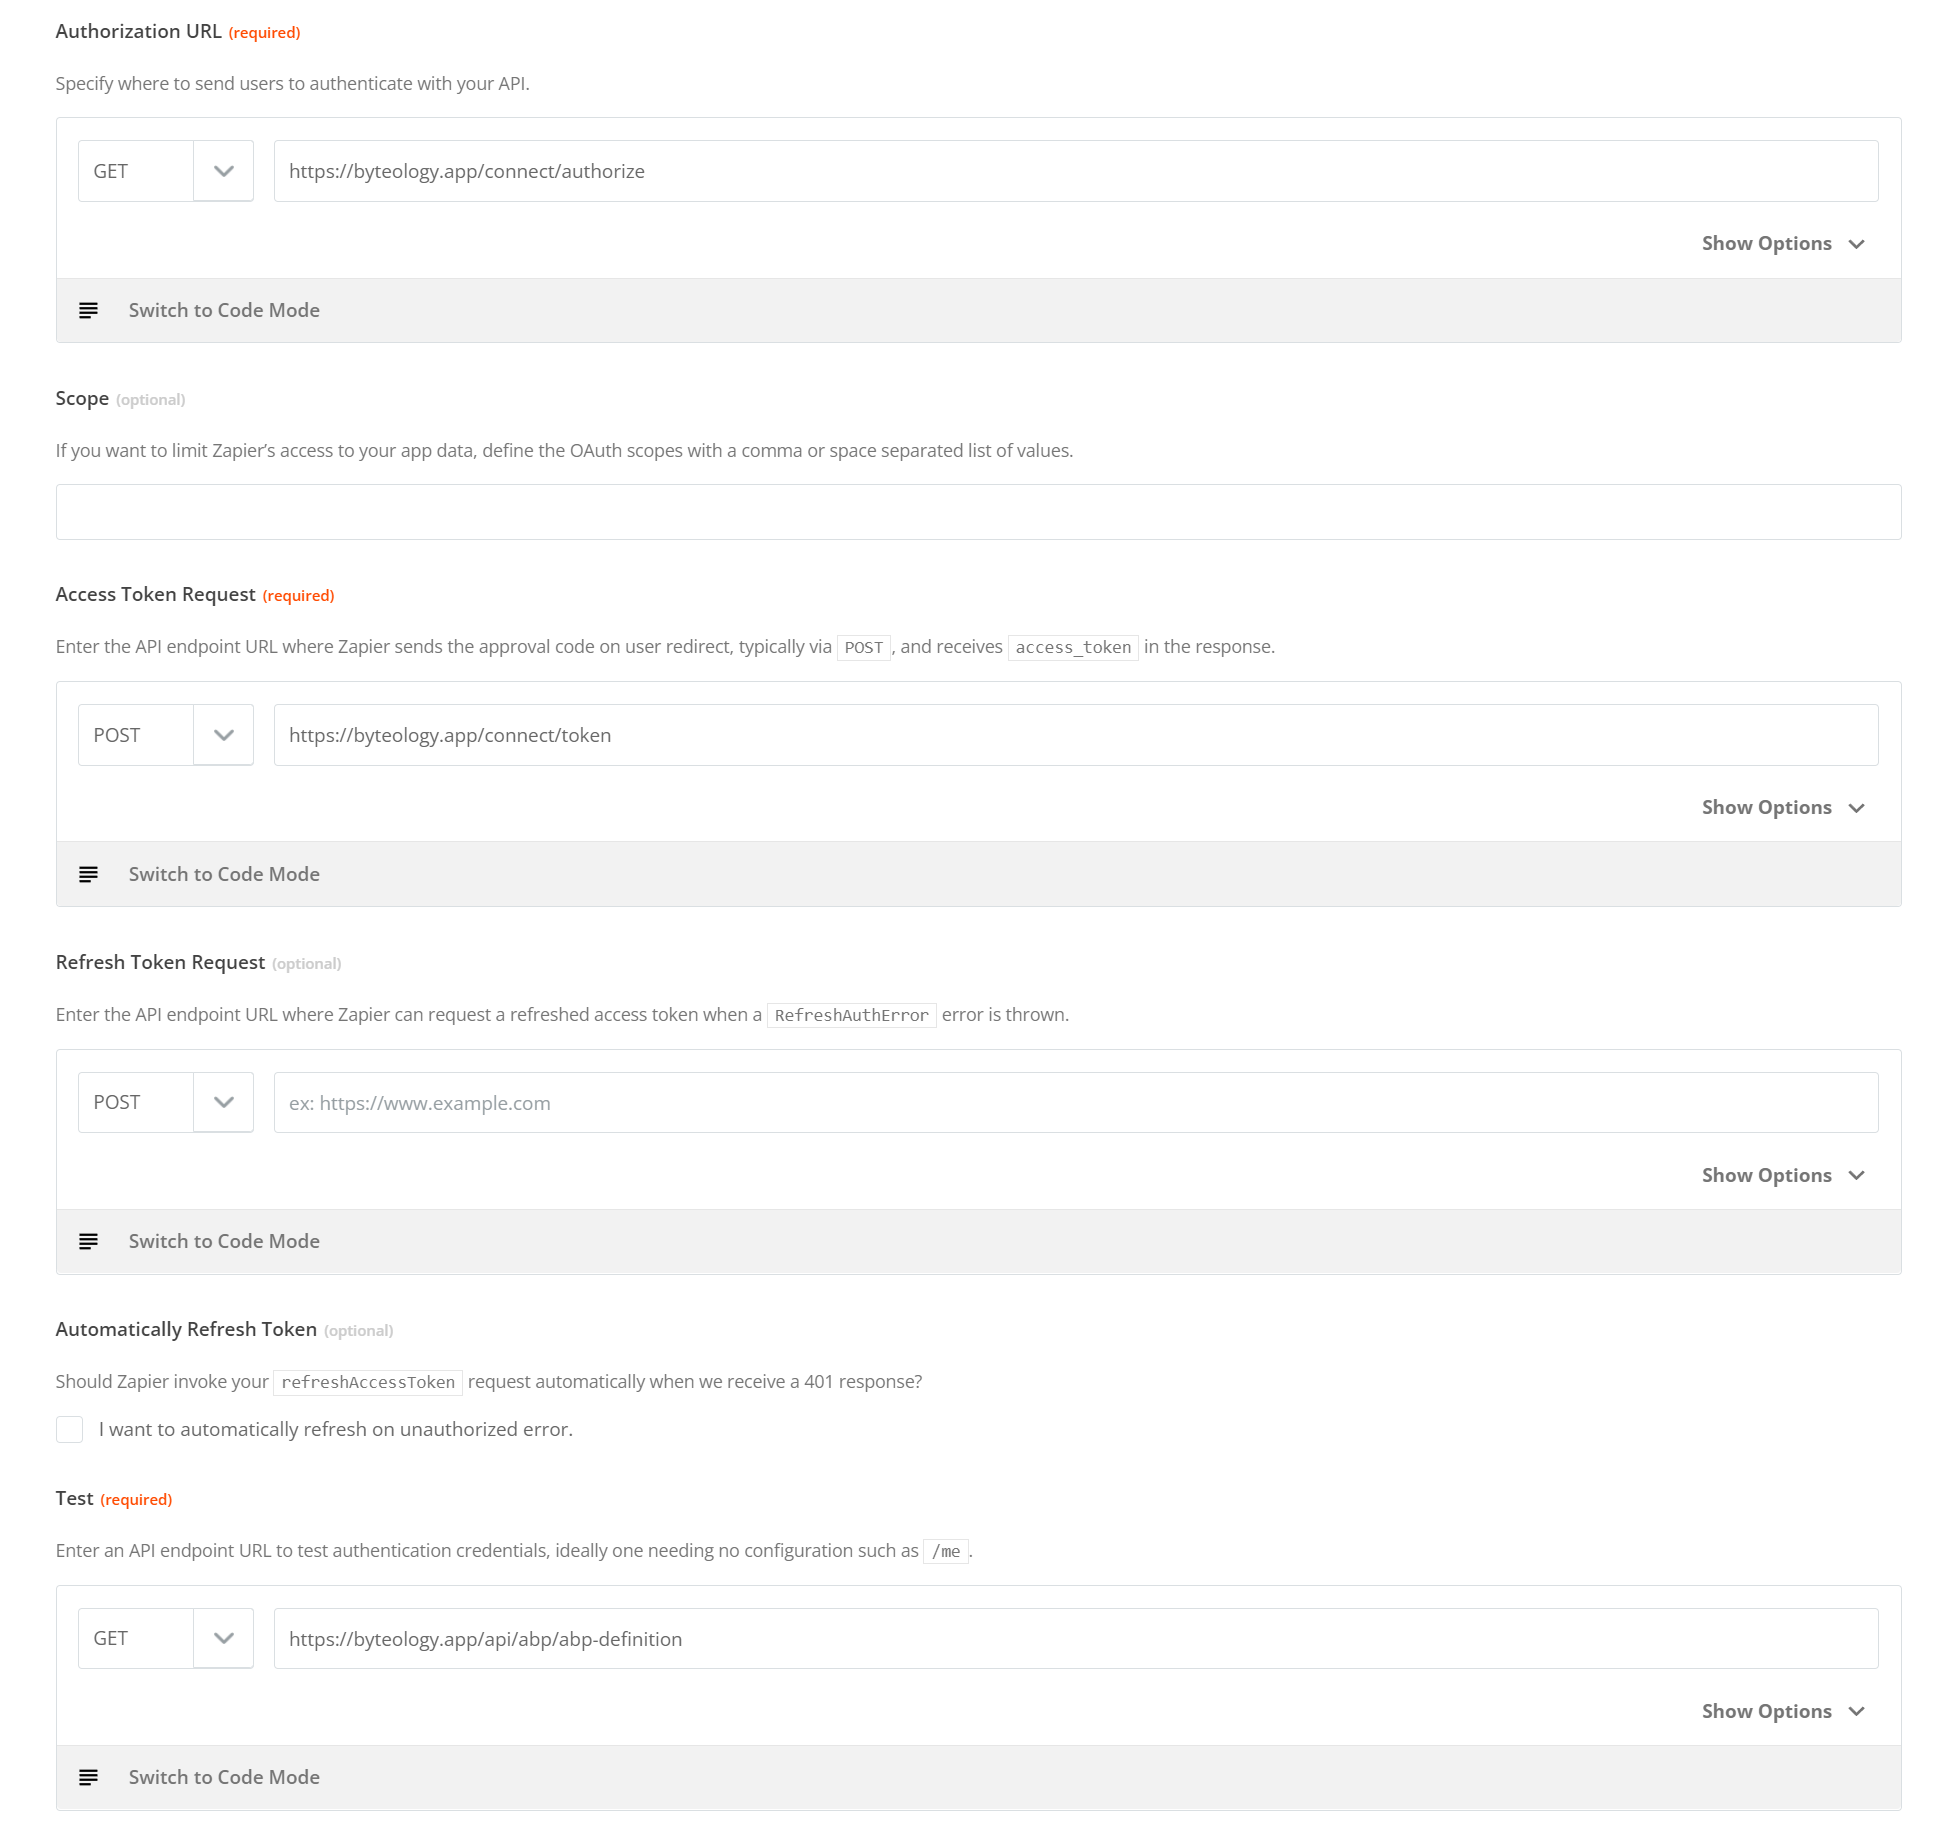
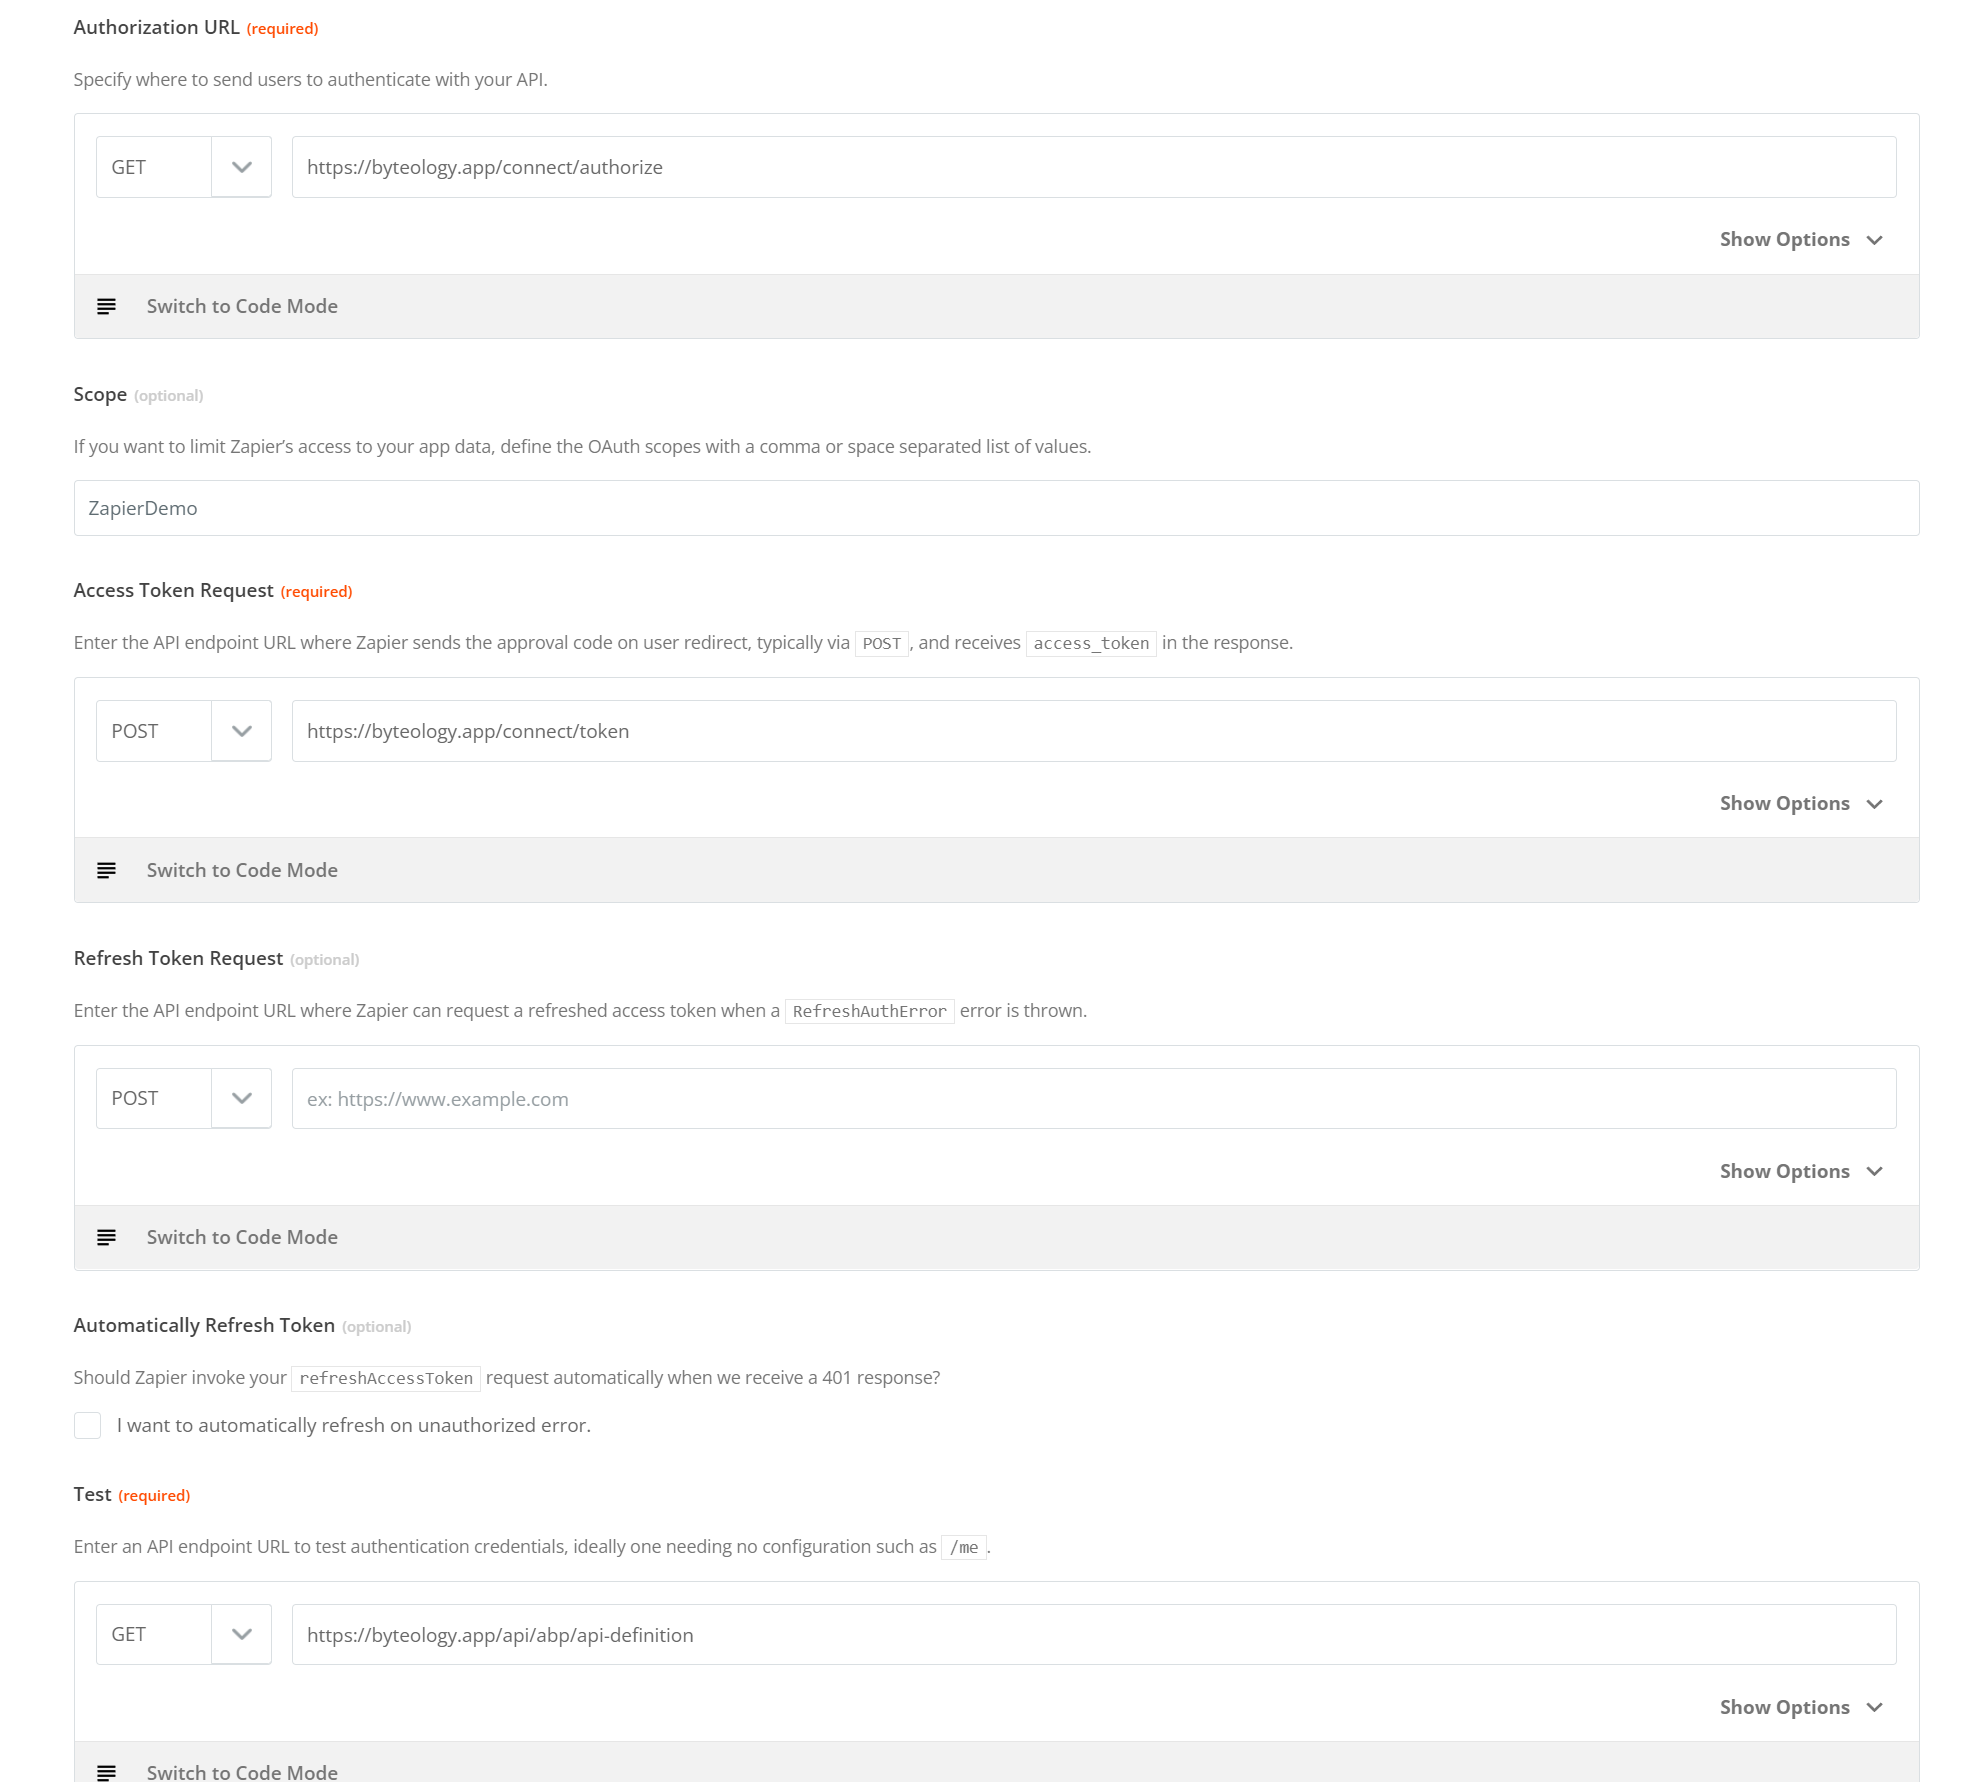
Auth flow updates

diff --git a/src/ZapierDemo.Web/ZapierDemoWebModule.cs b/src/ZapierDemo.Web/ZapierDemoWebModule.cs
@@ -37,6 +37,7 @@ using Volo.Abp.UI.Navigation.Urls;
 using Volo.Abp.UI;
 using Volo.Abp.UI.Navigation;
 using Volo.Abp.VirtualFileSystem;
+using Volo.Abp.OpenIddict;
 
 namespace ZapierDemo.Web;
 
@@ -51,7 +52,8 @@ namespace ZapierDemo.Web;
     typeof(AbpAspNetCoreMvcUiLeptonXLiteThemeModule),
     typeof(AbpTenantManagementWebModule),
     typeof(AbpAspNetCoreSerilogModule),
-    typeof(AbpSwashbuckleModule)
+    typeof(AbpSwashbuckleModule),
+    typeof(AbpOpenIddictAspNetCoreModule)
     )]
 public class ZapierDemoWebModule : AbpModule
 {

diff --git a/readme.md b/readme.md
@@ -63,7 +63,7 @@ In the "Step 3" section, enter a value for `Client ID` and `Client Secret` and s
 
 For the demo I used the following values:
 - Client ID: AbpZapier
-- Client Secret: 1q2w3E*
+- Client Secret: 1q2w3e*
 ![Zapier OAuth config Step 3 Client ID and Secret](/images/zapier_auth_client_id_and_secret.png)
 
 ### Configure the endpoints
@@ -73,7 +73,7 @@ The values used here are:
 - Authorization URL: GET : https://{domain name}}/connect/authorize
 - Scope: (we'll come back later and update this value)
 - Access Token Request: POST : https://{{domain name}}/connect/token
-- Test: GET : https://{{domain name}}/api/abp/abp-definition
+- Test: GET : https://{{domain name}}/api/abp/api-definition
 
 ### Save the integration as it sits thus far
 At this point, press the "Save and Continue" button to save your progress and we will switch over to the ABP application setup.
@@ -175,6 +175,19 @@ Save those changes, then relaunch Visual Studio as an administrator (this is to 
 At this point, your new application should be running and secured on the publicly routed domain of your choice.
 ![Screenshot of the browser showing a secured website](/images/secure_site_confirmation.png)
 
+### Add the `Volo.Abp.OpenIddict.AspNetCore` package to your **ZapierDemo.Web** project
+This will expose the controllers necessary for the `/connect/authorize` and `/connect/token` routes to function in your app. **This step is not necessary in an ABP Commercial project template.** Install the `Volo.Abp.OpenIddict.AspNetCore`  via your favorite method. For the purposes of this article, you can do so via the following steps:
+
+- Open the ZapierDemo.Web.csproj file
+- Add the following line inside one of the `<ItemGroup>` tags: `<PackageReference Include="Volo.Abp.OpenIddict.AspNetCore" Version="6.0.0-rc.1" />`
+- Rebuild the project.
+
+![Screenshot of the package reference in the csproj file](/images/csproj_package_reference.png)
+
+Once that line is added, navigate to the `ZapierDemoWebModule.cs` file in that same project and add the following line to your `[DependsOn(…` statement at the top: `typeof(AbpOpenIddictAspNetCoreModule)`
+
+[Screenshot of the DependsOn statement at the top of the ZapierDemoWebModule class](/images/zapierdemowebmodule_dependson.png)
+
 ## Back to Zapier to finish the initial integration
 ### Head back to the Zapier development console and test the authentication in Step 5
 
@@ -182,3 +195,17 @@ Navigate back to [the Zapier developer platform](https://developer.zapier.com/) 
 ![Zapier authentication step 5 for testing](/images/zapier_auth_testing.png)
 
 Click on the button labeled "Sign into AbpZapier (1.0.0)", and you SHOULD get a login window for your application.
+
+[Login screen for your application](/images/zapier_auth_testing_login_screen.png)
+
+Enter your admin credentials and login. This should create a ZapierAccount for this integration. Once you see an available account, you should be able to hit the "Test Authentication" button which should display the output of a successfully request.
+
+[Successful authentication test output in Zapier console](/images/zapier_auth_successful_test.png)
+
+## Conclusion
+
+There you have it! You are now able to explore the triggers and actions components of a Zapier integration with your application, which will all you to perform a number of automation tasks against your internal API. I will be going over configuring a trigger and an action in the next part of this series.
+
+Some important thing to note with this setup:
+- For a production environment, it is recommended to create a separate user for this integration and use that account when you log into the application to authorize Zapier. This way you can granularly control the permissions assigned to that user (Zapier will get the permissions for the account you use to authorize it).
+- This should work with the existing multi-tenancy configuration, but it might get tricky with a very custom tenant resolver. I have tested successfully with a standard subdomain resolver.
